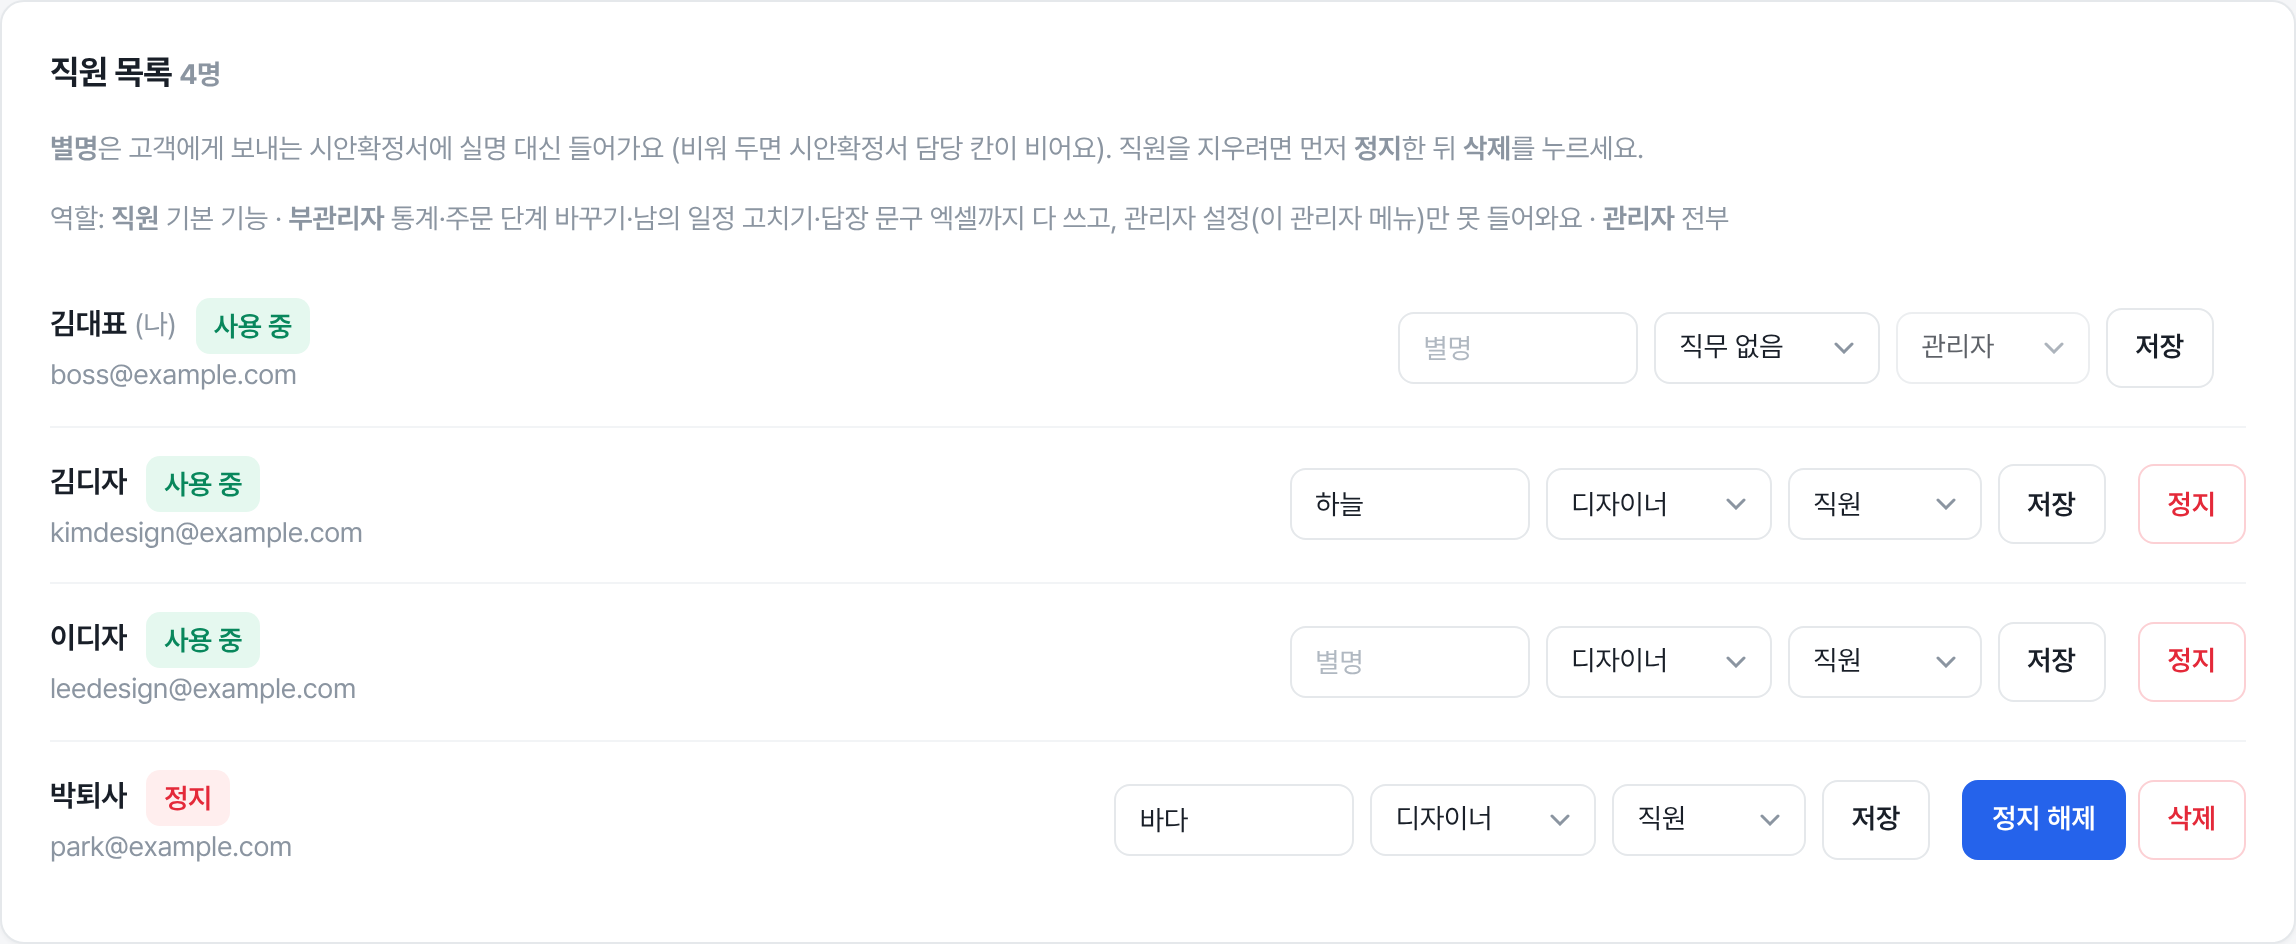
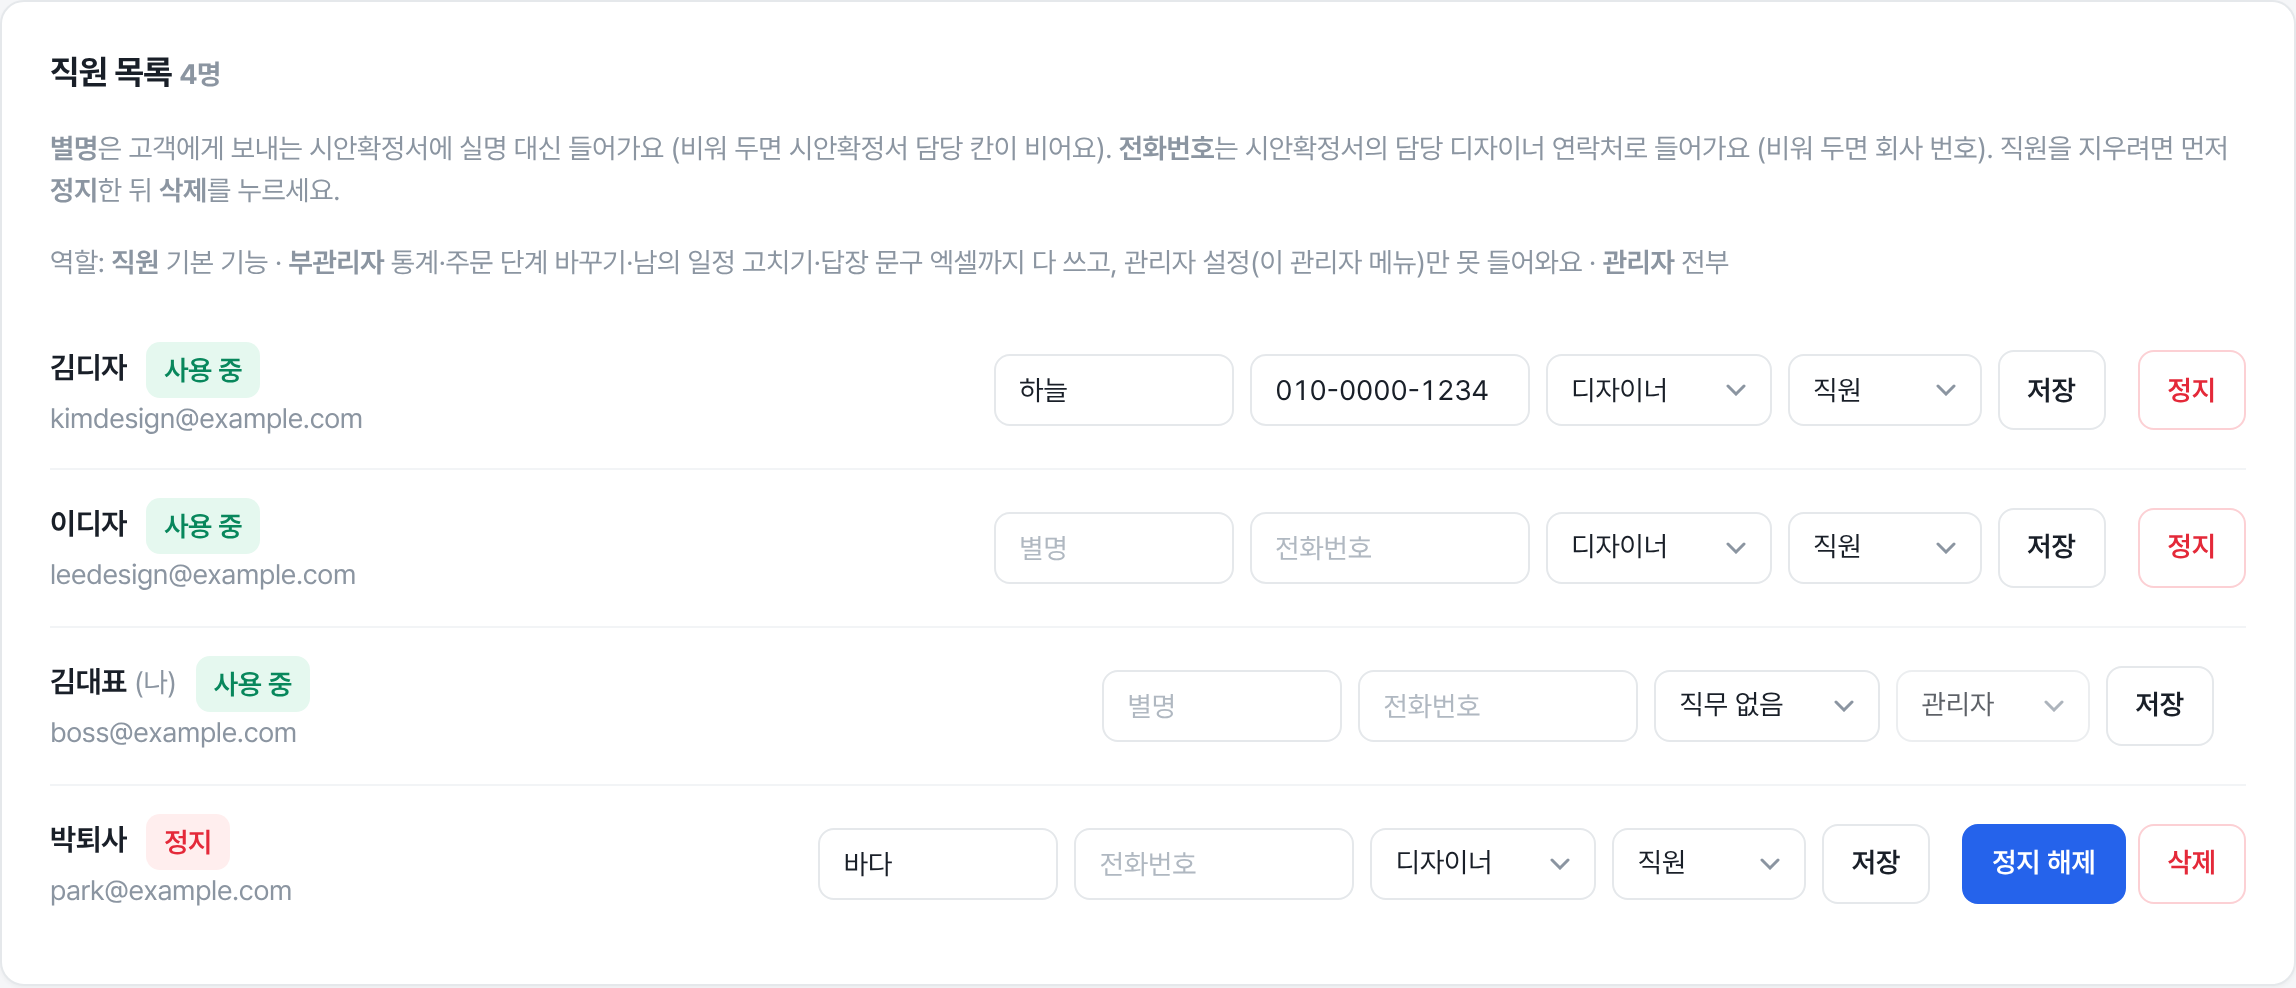
직원마다 전화번호(관리자 › 직원 관리): 고객용 시안확정서의 연락처에 담당 디자이너 번호, 없으면 회사 번호
- DB 칸 더하기 (users.phone), 숫자·- 만 받음
- 사용 방법: 시안확정서·직원 관리에 전화번호 설명, 직원 관리 그림 다시 찍음

Claude-Session: https://claude.ai/code/session_01Abfsu9LLooC7rduTcq19z3

diff --git a/src/routes/orders.js b/src/routes/orders.js
@@ -656,17 +656,20 @@ function orderRoutes(db, notifier, actions, collector = null, logen = null, proo
   });
   // 시안확정서 담당 디자이너 칸 (고객에게 가는 종이라 실명 대신 별명만)
   //   주문 담당 디자이너의 별명 → 담당이 없으면 지금 만드는 사람(로그인한 본인)의 별명 → 그래도 없으면 비우고 알려 준다
-  const myNickname = userId => (db.prepare('SELECT nickname FROM users WHERE id = ?').get(userId) || {}).nickname || '';
+  //   연락처: 그 디자이너 전화번호(관리자 › 직원 관리) → 없으면 회사 번호(관리자 › 회사·로고)
+  const me = userId => db.prepare('SELECT nickname, phone FROM users WHERE id = ?').get(userId) || {};
   const designerFor = (order, user) => {
     if (order && order.assignee_id) {
+      const phone = order.assignee_phone ? { phone: order.assignee_phone } : {};
       return order.assignee_nickname
-        ? { designer: order.assignee_nickname, designerNote: '' }
-        : { designer: '', designerNote: `담당 디자이너(${order.assignee_name || ''})의 별명이 없어 비워 뒀어요. 관리자 › 직원 관리에서 별명을 정해 주세요.` };
+        ? { designer: order.assignee_nickname, designerNote: '', ...phone }
+        : { designer: '', designerNote: `담당 디자이너(${order.assignee_name || ''})의 별명이 없어 비워 뒀어요. 관리자 › 직원 관리에서 별명을 정해 주세요.`, ...phone };
     }
-    const mine = myNickname(user.id);
-    return mine
-      ? { designer: mine, designerNote: order ? `담당 디자이너가 정해지지 않아 내 별명(${mine})을 넣었어요.` : '' }
-      : { designer: '', designerNote: `${order ? '담당 디자이너가 정해지지 않았고, ' : ''}내 별명이 없어 비워 뒀어요. 관리자 › 직원 관리에서 별명을 정해 주세요.` };
+    const mine = me(user.id);
+    const phone = mine.phone ? { phone: mine.phone } : {};
+    return mine.nickname
+      ? { designer: mine.nickname, designerNote: order ? `담당 디자이너가 정해지지 않아 내 별명(${mine.nickname})을 넣었어요.` : '', ...phone }
+      : { designer: '', designerNote: `${order ? '담당 디자이너가 정해지지 않았고, ' : ''}내 별명이 없어 비워 뒀어요. 관리자 › 직원 관리에서 별명을 정해 주세요.`, ...phone };
   };
   router.get('/proof-maker', (req, res) => makerPage(req, res, { revision: 0, ...designerFor(null, req.user) }));
   router.get('/orders/:id/proof-maker', (req, res) => {
@@ -683,8 +686,8 @@ function orderRoutes(db, notifier, actions, collector = null, logen = null, proo
       receiver: v.receiver,
       orderNo: v.orderNo,
       revision: v.revision,
+      phone: v.phone, // 회사 번호 (담당 디자이너 전화번호가 있으면 아래에서 그것으로)
       ...designerFor(order, req.user), // 고객에게 가는 종이라 실명 대신 별명만
-      phone: v.phone,
       // 고객이 주문한 그대로: 상품마다 '이름 × 수량' 줄 + 옵션 줄, 상품 사이는 빈 줄
       products: v.products.map(p => `${p.name} × ${p.qty}${p.option ? `\n${p.option.split(' / ').join(' · ')}` : ''}`).join('\n\n'),
       addons: v.addons.map(a => `${a.value} × ${a.qty}${a.label ? ` (${a.label})` : ''}`).join('\n'),
@@ -1155,7 +1158,7 @@ function orderRoutes(db, notifier, actions, collector = null, logen = null, proo
 
   function findOrder(id) {
     return db.prepare(`
-      SELECT o.*, s.name AS stage_name, u.name AS assignee_name, u.nickname AS assignee_nickname
+      SELECT o.*, s.name AS stage_name, u.name AS assignee_name, u.nickname AS assignee_nickname, u.phone AS assignee_phone
       FROM orders o
       LEFT JOIN work_stages s ON s.id = o.stage_id
       LEFT JOIN users u ON u.id = o.assignee_id

diff --git a/src/routes/admin.js b/src/routes/admin.js
@@ -58,7 +58,7 @@ function adminRoutes(db, sessionStore, collector, notifier, brand = null, weekly
   // ───────── 직원 관리 ─────────
   router.get('/users', (req, res) => {
     const users = db.prepare(`
-      SELECT u.id, u.email, u.name, u.nickname, u.role, u.sub_admin, u.status, u.job_id, u.created_at, u.locked_until, j.name AS job_name
+      SELECT u.id, u.email, u.name, u.nickname, u.phone, u.role, u.sub_admin, u.status, u.job_id, u.created_at, u.locked_until, j.name AS job_name
       FROM users u LEFT JOIN jobs j ON j.id = u.job_id
       WHERE u.deleted_at IS NULL
       ORDER BY CASE u.status WHEN 'pending' THEN 0 WHEN 'active' THEN 1 WHEN 'suspended' THEN 2 ELSE 3 END,
@@ -218,7 +218,13 @@ function adminRoutes(db, sessionStore, collector, notifier, brand = null, weekly
 
     // 별명: 고객용 시안확정서에 실명 대신 들어가는 이름 (비우면 시안확정서 담당 칸도 비어요)
     const nickname = String(req.body.nickname || '').trim().slice(0, 20) || null;
-    db.prepare('UPDATE users SET job_id = ?, role = ?, sub_admin = ?, nickname = ? WHERE id = ?').run(jobId, role, subAdmin, nickname, user.id);
+    // 전화번호: 고객용 시안확정서의 담당 디자이너 연락처 (숫자·-·괄호·띄어쓰기만, 비우면 회사 번호)
+    const phone = String(req.body.phone || '').trim().slice(0, 20);
+    if (phone && !/^[0-9+()\-\s]{7,20}$/.test(phone)) {
+      flash(req, 'error', '전화번호는 숫자와 - 로 적어 주세요. 예: 010-1234-5678');
+      return res.redirect('/admin/users');
+    }
+    db.prepare('UPDATE users SET job_id = ?, role = ?, sub_admin = ?, nickname = ?, phone = ? WHERE id = ?').run(jobId, role, subAdmin, nickname, phone || null, user.id);
     flash(req, 'ok', `${user.name} 님의 정보를 저장했습니다.`);
     res.redirect('/admin/users');
   });

diff --git a/test/admin.test.js b/test/admin.test.js
@@ -113,6 +113,11 @@ test('별명: 가입할 때 넣고, 관리자 화면에서 고치고 비울 수 
   await press(admin, `/admin/users/${id}/update`, { nickname: '바다', role: 'staff', job_id: '' });
   assert.strictEqual(db.prepare('SELECT nickname FROM users WHERE id = ?').get(id).nickname, '바다');
   assert.match((await admin.request('/admin/users')).text, /name="nickname" value="바다"/);
+  await press(admin, `/admin/users/${id}/update`, { nickname: '바다', phone: ' 010-1234-5678 ', role: 'staff', job_id: '' });
+  assert.strictEqual(db.prepare('SELECT phone FROM users WHERE id = ?').get(id).phone, '010-1234-5678');
+  assert.match((await admin.request('/admin/users')).text, /name="phone" value="010-1234-5678"/);
+  await press(admin, `/admin/users/${id}/update`, { nickname: '바다', phone: '<b>전화</b>', role: 'staff', job_id: '' });
+  assert.strictEqual(db.prepare('SELECT phone FROM users WHERE id = ?').get(id).phone, '010-1234-5678', '이상한 값은 저장 안 함');
   await press(admin, `/admin/users/${id}/update`, { nickname: '  ', role: 'staff', job_id: '' });
   assert.strictEqual(db.prepare('SELECT nickname FROM users WHERE id = ?').get(id).nickname, null);
 });

diff --git a/test/proofs.test.js b/test/proofs.test.js
@@ -232,6 +232,12 @@ test('고객용 시안확정서 만들기: 빈 양식과 주문으로 미리 채
   const nick = await ctx.kim.request(`/orders/${ctx.id}/proof-maker`);
   assert.match(nick.text, /name="designer" value="하늘"/);
   assert.doesNotMatch(nick.text, /별명이 없어 비워 뒀어요/);
+  // 담당 디자이너 전화번호가 있으면 연락처도 그 번호 (없으면 회사 번호)
+  assert.match(nick.text, /name="phone" value="031-822-7815"/, '전화번호가 없으면 회사 번호');
+  ctx.db.prepare("UPDATE users SET phone = '010-1111-2222' WHERE id = ?").run(ctx.kimId);
+  assert.match((await ctx.kim.request(`/orders/${ctx.id}/proof-maker`)).text, /name="phone" value="010-1111-2222"/);
+  assert.match((await ctx.kim.request('/proof-maker')).text, /name="phone" value="010-1111-2222"/, '빈 양식도 내 번호');
+  ctx.db.prepare('UPDATE users SET phone = NULL WHERE id = ?').run(ctx.kimId);
   // 담당 디자이너가 없으면 만드는 사람(로그인한 본인)의 별명
   ctx.db.prepare("UPDATE orders SET assignee_id = NULL WHERE channel_order_id = 'O1'").run();
   const noAssignee = (await ctx.kim.request(`/orders/${ctx.id}/proof-maker`)).text;

diff --git a/src/db.js b/src/db.js
@@ -70,6 +70,8 @@ function addMissingColumns(db) {
   addColumn(db, 'users', 'deleted_at', 'TEXT');
   // 화면 밝기: 'auto'(컴퓨터 설정 따라, 기본) · 'light' · 'dark' — 직원마다 계정에 저장
   addColumn(db, 'users', 'theme', 'TEXT');
+  // 디자이너 전화번호: 고객용 시안확정서의 담당 디자이너 옆 연락처 (관리자 › 직원 관리에서). 비어 있으면 회사 번호
+  addColumn(db, 'users', 'phone', 'TEXT');
   // 보류: 고객이 '파일·내용 정리될 때까지 잠깐 멈춰 달라' 한 주문 (주문 묶음 전체에 같이). 회사 안에서만 표시
   addColumn(db, 'orders', 'hold_at', 'TEXT');
   addColumn(db, 'orders', 'hold_note', 'TEXT');

diff --git a/public/style.css b/public/style.css
@@ -2144,6 +2144,7 @@ button.ev-btn { width: 100%; min-height: 44px; font-size: 16px; }
 
 /* 직원 관리: 별명 칸·표시 (별명 = 고객용 시안확정서에 들어가는 이름) */
 .row-edit .nick-input { width: 120px; margin: 0; }
+.row-edit .phone-input { width: 140px; margin: 0; font-variant-numeric: tabular-nums; }
 .nick-tag { display: inline-flex; align-items: center; height: 24px; padding: 0 8px; border-radius: 6px; background: var(--line-2); color: var(--text-2); font-size: 14px; font-weight: 500; vertical-align: middle; }
 .maker-note { display: block; margin: -6px 0 12px; color: var(--error); font-size: 14px; font-weight: 500; line-height: 1.4; }
 

diff --git a/docs/guide.md b/docs/guide.md
@@ -178,8 +178,9 @@
 
 - 상품 칸은 상품마다 첫 줄에 이름 × 수량, 다음 줄에 옵션을 쓰고, 상품 사이는 한 줄 비워요.
 - 추가옵션은 한 줄에 하나씩 쓰고, 끝의 괄호 안 글자는 연한 글씨로 나와요.
-- 아래 약관과 담당 디자이너 옆 연락처는 관리자가 **관리자 › 회사·로고**에서 고쳐요.
-- **담당 디자이너** 칸에는 실명이 아니라 **별명**이 들어가요. 주문에 담당 디자이너가 정해지지 않았으면 **시안확정서를 만드는 사람(나)의 별명**이 들어가요. 별명이 없으면 칸이 비어 있고 빨간 글씨로 알려 줘요. 그때는 관리자에게 별명을 정해 달라고 하세요.
+- 아래 약관과 회사 번호는 관리자가 **관리자 › 회사·로고**에서 고쳐요.
+- **담당 디자이너** 칸에는 실명이 아니라 **별명**이, **연락처** 칸에는 그 디자이너의 **전화번호**가 들어가요. 디자이너 전화번호는 관리자가 **관리자 › 직원 관리**에서 정하고, 정해지지 않았으면 회사 번호가 들어가요.
+- 주문에 담당 디자이너가 정해지지 않았으면 **시안확정서를 만드는 사람(나)의 별명**이 들어가요. 별명이 없으면 칸이 비어 있고 빨간 글씨로 알려 줘요. 그때는 관리자에게 별명을 정해 달라고 하세요.
 
 ![별명이 없는 디자이너가 담당이면 칸을 비우고 알려 줘요 (예시 화면)](/guide-img/proof-designer.png)
 
@@ -399,6 +400,7 @@ G마켓·옥션 주문도 주문 목록에 저절로 들어와요. 판매처 표
 ![직원 관리: 직원마다 별명·직무·역할을 정하고 [저장]. 정지한 직원에게는 [삭제]가 생겨요 (예시 화면)](/guide-img/admin-users.png)
 
 - **별명**: 고객에게 보내는 시안확정서에 실명 대신 들어가는 이름이에요. 칸에 적고 **저장**을 누르면 돼요. 비우면 시안확정서 담당 칸도 비어요.
+- **전화번호**: 시안확정서의 담당 디자이너 옆 **연락처**로 들어가는 번호예요. 디자이너마다 적고 **저장**을 누르면 돼요. 비워 두면 회사 번호(**관리자 › 회사·로고**)가 들어가요.
 - **정지**: 그만둔 직원이나 잠시 못 쓰게 할 계정은 **정지**를 눌러요. 바로 로그아웃되고 다시 로그인할 수 없어요. **정지 해제**로 되돌릴 수 있어요.
 - **삭제**: 정지한 직원에게만 **삭제** 버튼이 생겨요. 일하는 직원을 실수로 지우지 않게 정지 → 삭제 두 단계로 해 두었어요.
   - 그 직원이 담당하던 **진행 중 주문**과 **미답변 문의**는 미지정이 돼요. 몇 건인지 확인창에 나와요.
